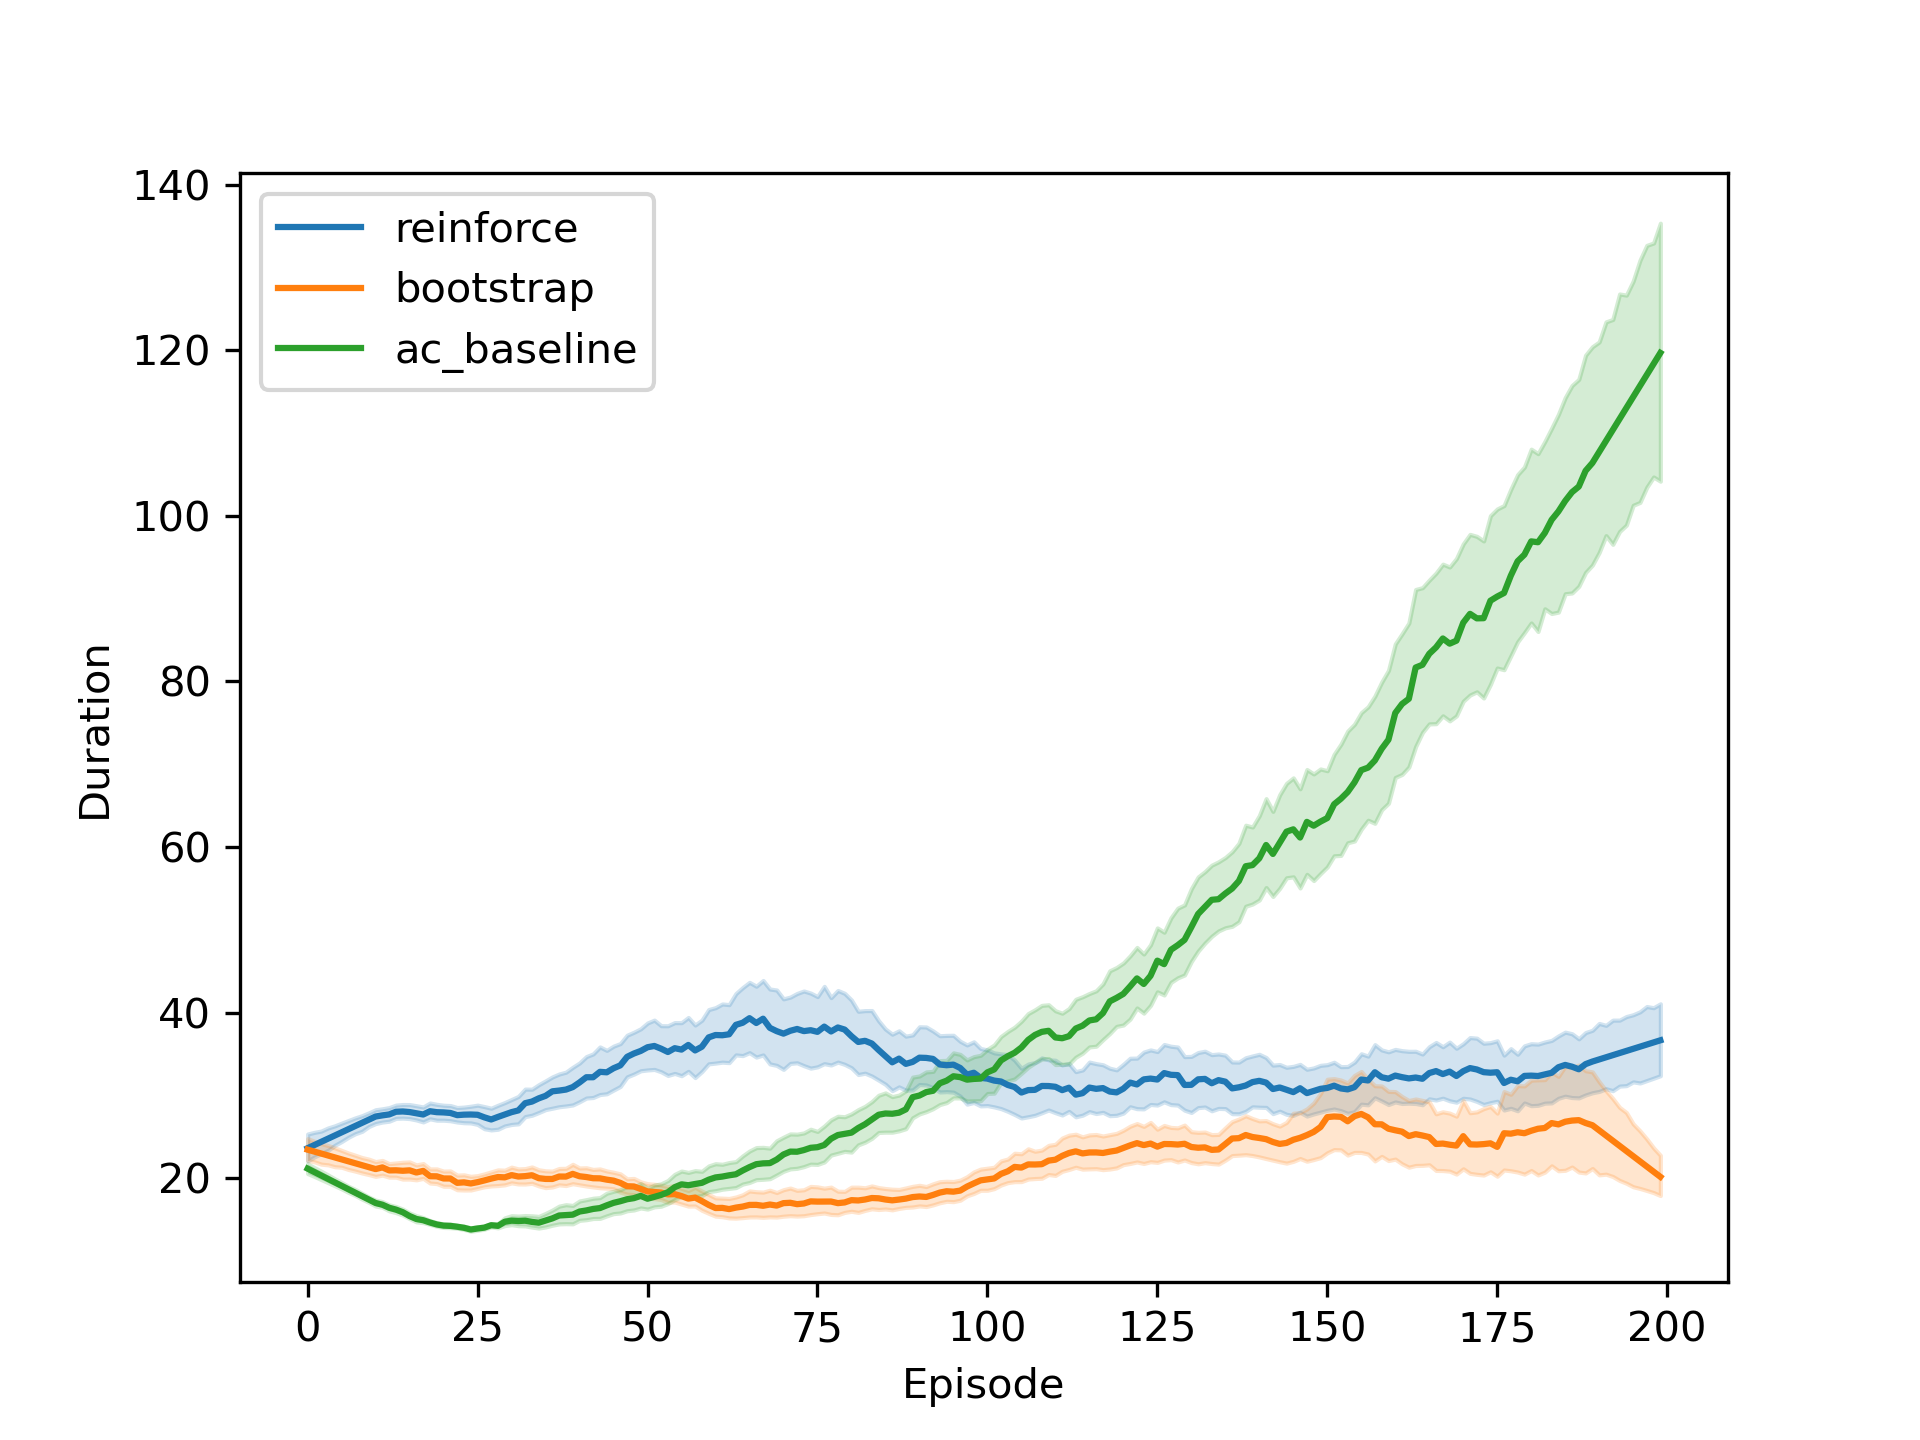
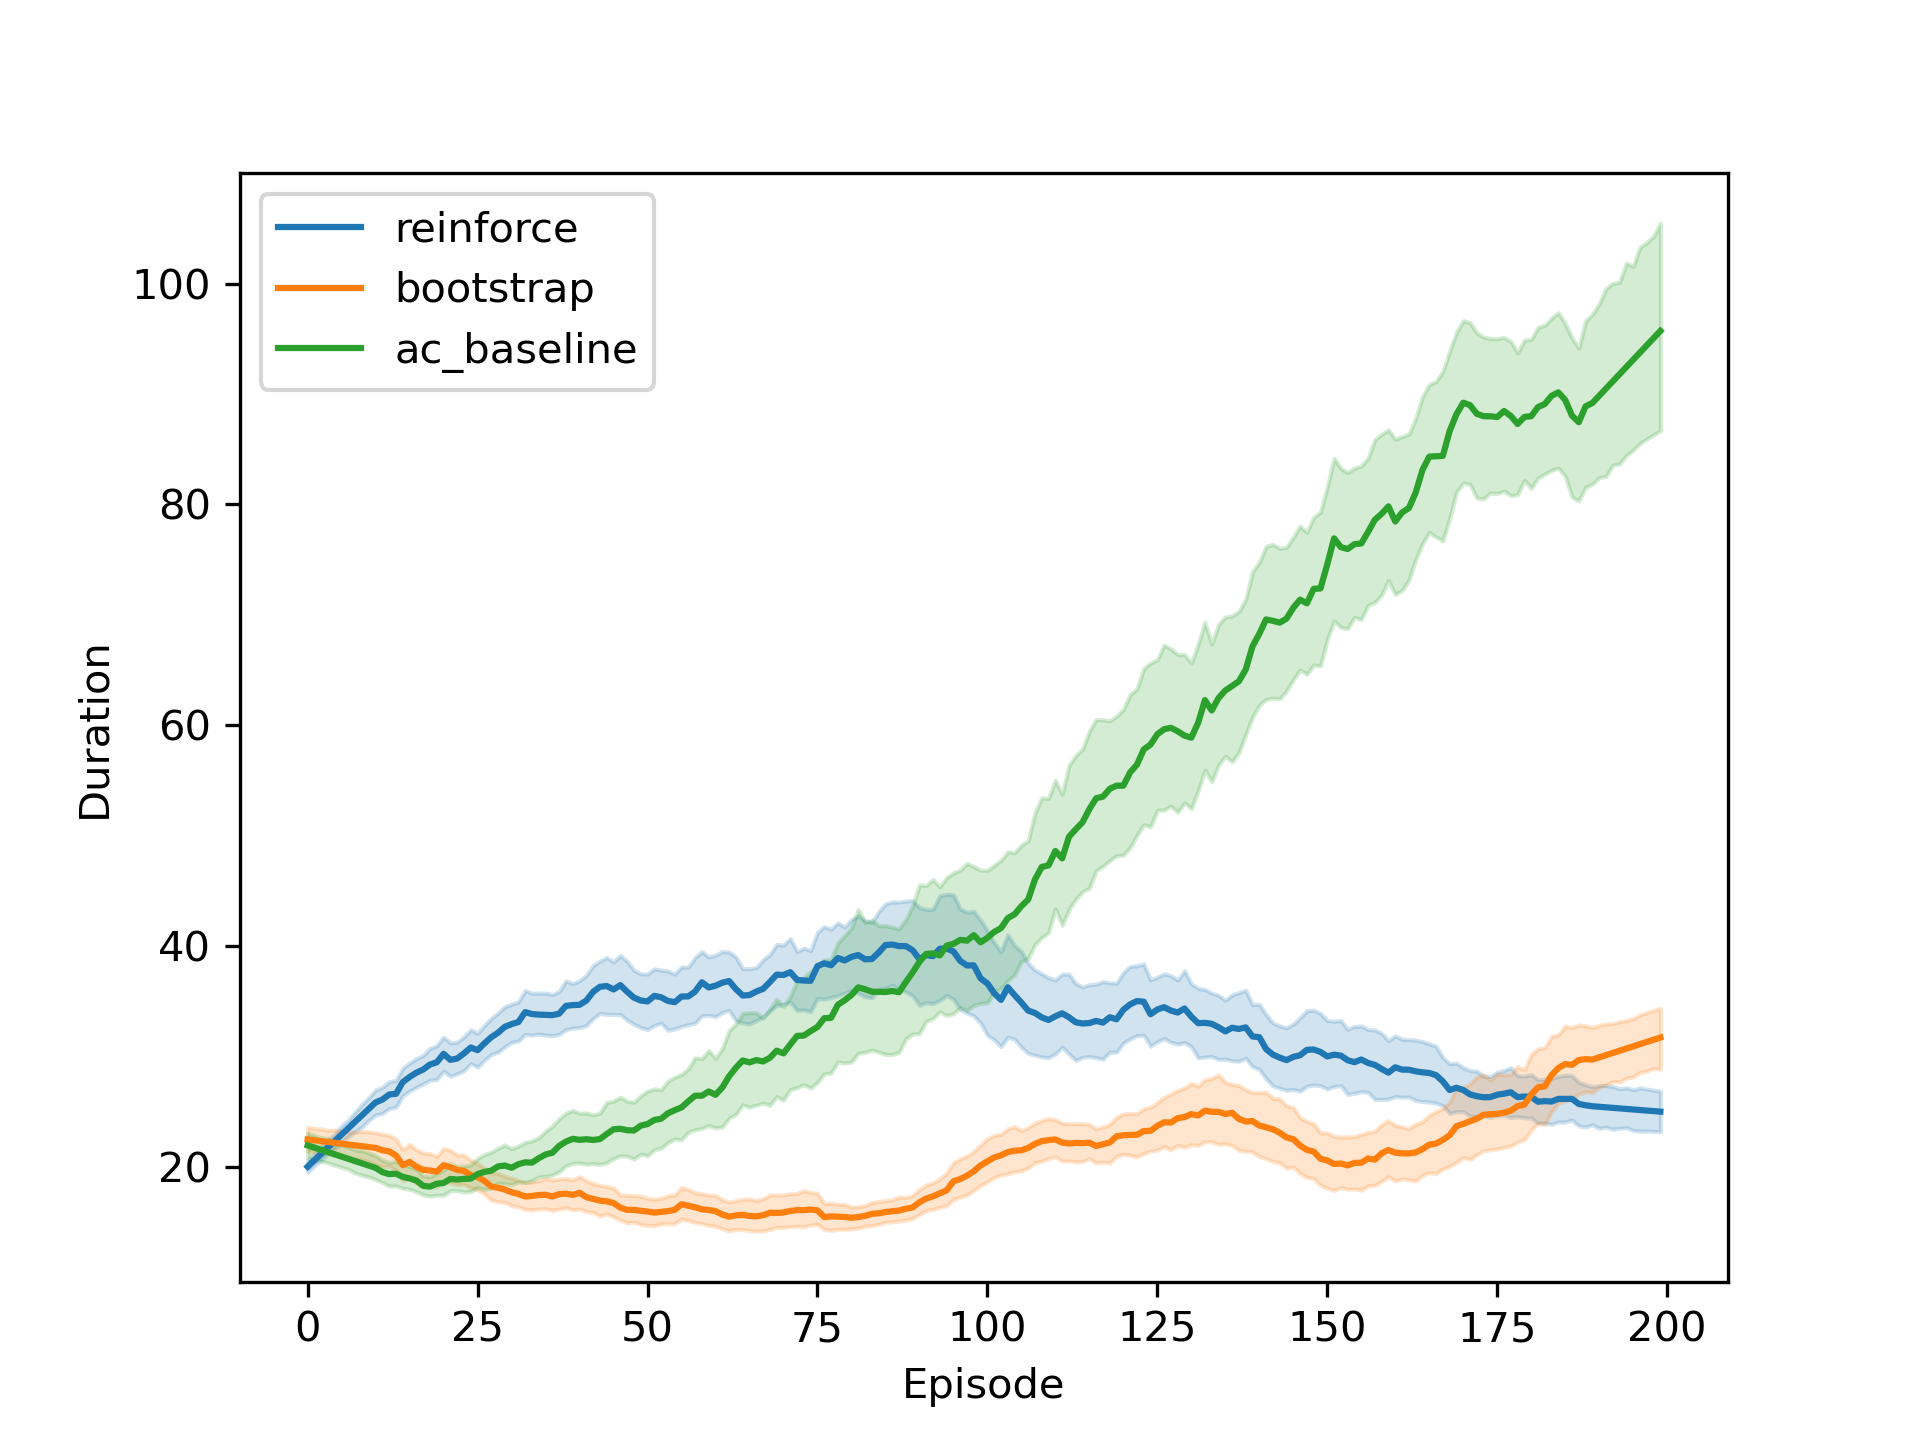
baseline bootstrap AC

diff --git a/Bootstrapping_basesubtraction.py b/Bootstrapping_basesubtraction.py
@@ -9,11 +9,9 @@ import torch.nn as nn
 import torch.nn.functional as F
 import torch.optim as optim
 from torch.distributions import Categorical
-import matplotlib.pyplot as plt
 
 
-
-class BS(nn.Module):
+class Boot_basesub(nn.Module):
     def __init__(self,learning_rate) -> None:
         super().__init__()
 
@@ -93,9 +91,14 @@ class BS(nn.Module):
 
         return Q_n
 
-    def train(self,gamma,eta,n_depth):
+    def train(self,gamma,eta,n_depth,is_entropy):
+        '''
+        add the subtraction for n_strap, which is also the Advantage function.
+        '''
         s, a, r, s_, done = self.make_batch()
         Q = self.n_strap(s=s,r=r,gamma=gamma, n=n_depth)
+
+        A_n = Q - self.v(s)
         
         # value update
         loss_v = F.smooth_l1_loss(self.v(s), Q.detach())
@@ -103,8 +106,11 @@ class BS(nn.Module):
         # policy update
         pi = self.pi(s, softmax_dim=1)
         pi_a = pi.gather(1,a)
-
-        loss_p = Q.detach() * (-torch.log(pi_a))
+        loss_p = A_n.detach() * (-torch.log(pi_a))
+        
+        if is_entropy:
+            entropy = Categorical(pi_a).entropy()
+            loss_p = A_n.detach() * (-torch.log(pi_a)) + eta * entropy
 
         loss = loss_v + loss_p
         loss.mean().backward()
@@ -112,7 +118,7 @@ class BS(nn.Module):
         self.optimizer.zero_grad()
 
 
-def bootstrap(MAX_EPISODES = 10000,n_depth = 5,gamma=0.98,learning_rate=0.001,eta = 0.98):
+def Bootstrapping_basesubtraction(MAX_EPISODES = 10000,n_depth = 10,gamma=0.98,learning_rate=0.001,eta = 0.98, is_entropy=False):
     '''
     main func
 
@@ -121,10 +127,11 @@ def bootstrap(MAX_EPISODES = 10000,n_depth = 5,gamma=0.98,learning_rate=0.001,et
     :param gamma: penalty value when calculating the cumulating rewards.
     :param learning_rate: for network optimization parameter
     :param eta: for entropy regularization
+    :param is_entropy: default false, if true add a regularization for policy update
     :return: reward
     '''
     env = gym.make('CartPole-v1')
-    ac = BS(learning_rate = learning_rate)
+    ac = Boot_basesub(learning_rate = learning_rate)
 
     flag_reward = 0.0
     total_reward = []
@@ -155,7 +162,7 @@ def bootstrap(MAX_EPISODES = 10000,n_depth = 5,gamma=0.98,learning_rate=0.001,et
                 if done:
                     break
             
-            ac.train(gamma=gamma,eta=eta,n_depth=n_depth)
+            ac.train(gamma=gamma,eta=eta,n_depth=n_depth,is_entropy = is_entropy)
         
         # reward for plotting
         total_reward.append(epi_reward)
@@ -167,9 +174,4 @@ def bootstrap(MAX_EPISODES = 10000,n_depth = 5,gamma=0.98,learning_rate=0.001,et
 
     env.close()
 
-    #fig,ax = plt.subplots()
-    #ax.plot(total_reward)
-    #plt.show()
     return total_reward
-#300,15,0.98,0.001
-#bootstrap(400,10,0.98,0.001)

diff --git a/Evaluation.py b/Evaluation.py
@@ -7,6 +7,7 @@ import pandas as pd
 import argparse
 from BS_nsteps2 import bootstrap
 from AC_baseline import AC_baseline
+from Bootstrapping_basesubtraction import Bootstrapping_basesubtraction
 
 #Source of the plotting code:A1
 class LearningCurvePlot:
@@ -48,9 +49,11 @@ def average_over_repetitions(n_repetitions,n_episodes,smoothing_widnow,algo):
         if algo == "reinforce":
             rewards = REINFORCE_algorithm(n_episodes,learning_rate=0.02)
         elif algo == 'bootstrap':
-            rewards = bootstrap(n_episodes)
+            rewards = bootstrap(n_episodes,learning_rate=0.001)
         elif algo == 'ac_baseline':
             rewards = AC_baseline(n_episodes,learning_rate=learning_rate)
+        elif algo == 'bootsub':
+            rewards = Bootstrapping_basesubtraction(n_episodes)
 
 
 
@@ -76,11 +79,12 @@ def get_REINFORCE():
 def get_comparison_plot():
     plot = LearningCurvePlot()
 
-    n_episodes = 200
+    n_episodes = 500
     df1 = average_over_repetitions(10,n_episodes,21, algo="reinforce")
     df2 = average_over_repetitions(10,n_episodes,21, algo="bootstrap")
     df3 = average_over_repetitions(10,n_episodes,21, algo="ac_baseline")
-    bigdf = pd.concat([df1,df2,df3],ignore_index=True)
+    df4 = average_over_repetitions(10,n_episodes,21,algo='bootsub')
+    bigdf = pd.concat([df1,df2,df3,df4],ignore_index=True)
     bigdf.columns = ['episode','score','algorithm']
     bigdf.to_csv('data.csv',index=False)
     plot.add_lines(bigdf)
